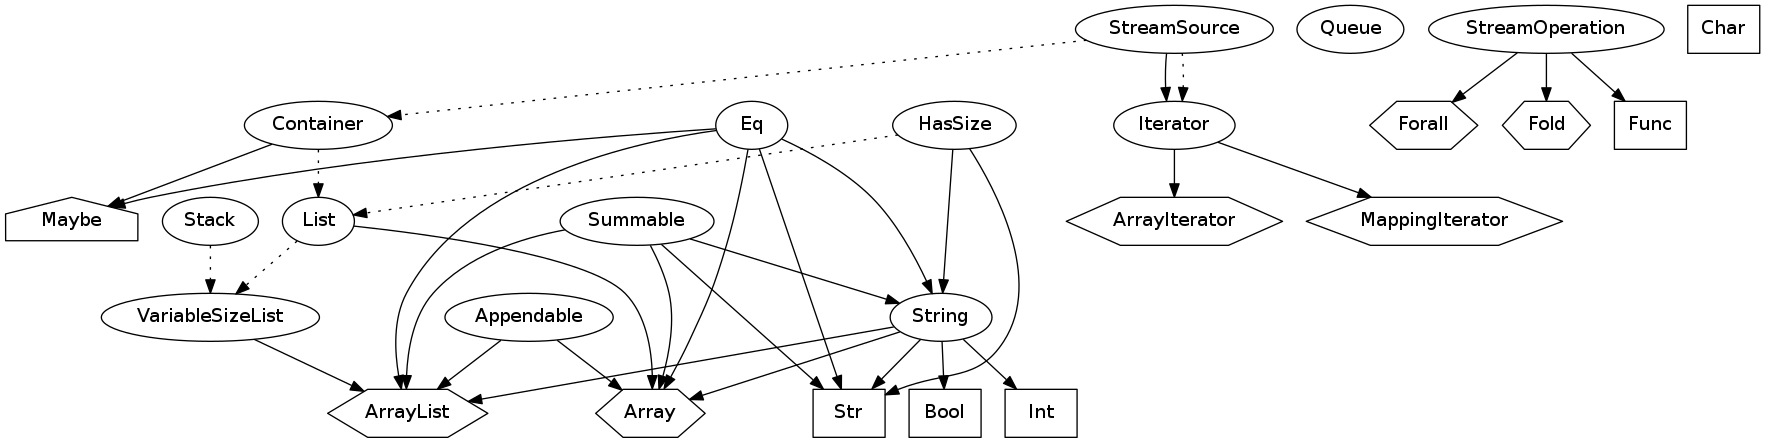
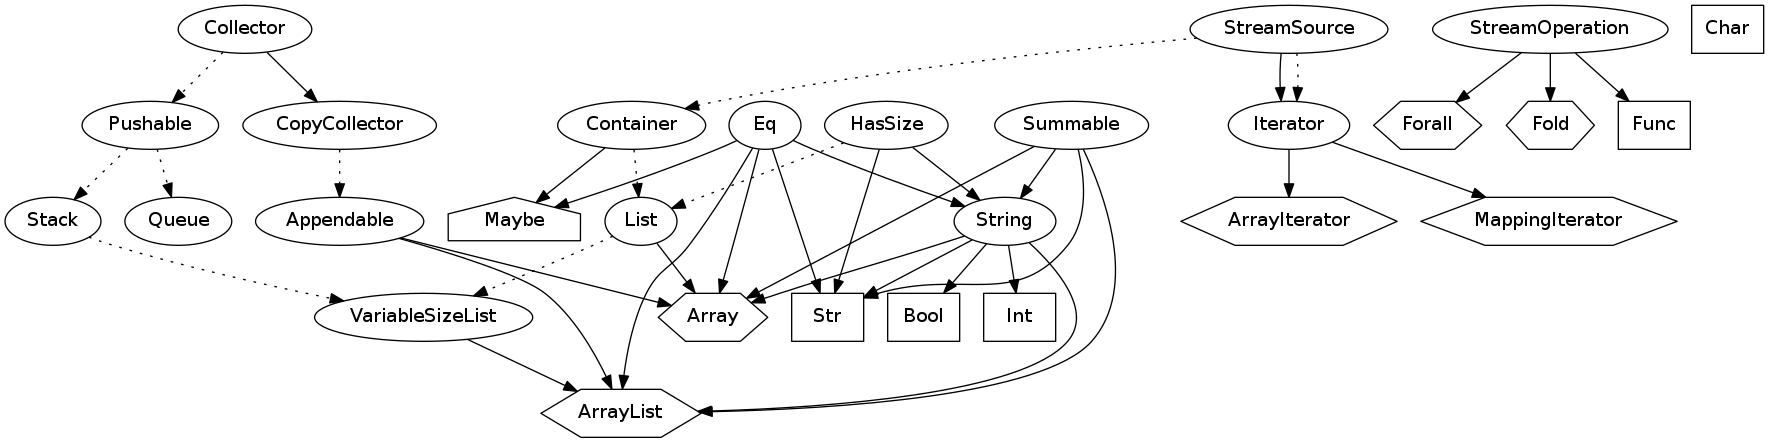
explicit function type arguments + collectors

diff --git a/doc/DOC.md b/doc/DOC.md
@@ -268,12 +268,22 @@ Represents a value that may or may not be present. Implements both `Container` a
 #### The `Appendable` model
 
 ```
-model Appendable<@T> {
+model Appendable<@T> : CopyCollector<@T> {
 	$ append(@T element);
 }
 ```
 
 Implementing types: `Array`, `ArrayList`.
+
+#### The `Collector` model
+
+```
+model Collector<@T> {
+	StreamOperation<@T, $> collect();
+}
+```
+
+Implementing types: `ArrayList`, `CopyCollector`
 
 #### The `Container` model
 
@@ -286,6 +296,16 @@ model Container<@T> : StreamSource<@T> {
 All collections that have finite size should implement this model.
 
 Implementing types: `Array`, `ArrayList`, `Maybe`.
+
+#### The `CopyCollector` model
+
+```
+model CopyCollector<@T> {
+	StreamOperation<@T, $> collectToCopy();
+}
+```
+
+Implementing types: `Array`, `ArrayList`
 
 #### The `HasSize` model
 
@@ -323,11 +343,20 @@ Collections that appear as ordered sequences of finite size should implement thi
 
 Implementing types: `Array`, `ArrayList`
 
+#### The `Pushable` model
+
+```
+model Pushable<@T> : Collector<@T> {
+	Void push(@T element);
+}
+```
+
+Implementing types: `ArrayList`
+
 #### The `Stack` model
 
 ```
-model Stack<@T> {
-	Void push(@T value);
+model Stack<@T> : Pushable<@T>{
 	@T pop();
 }
 ```
